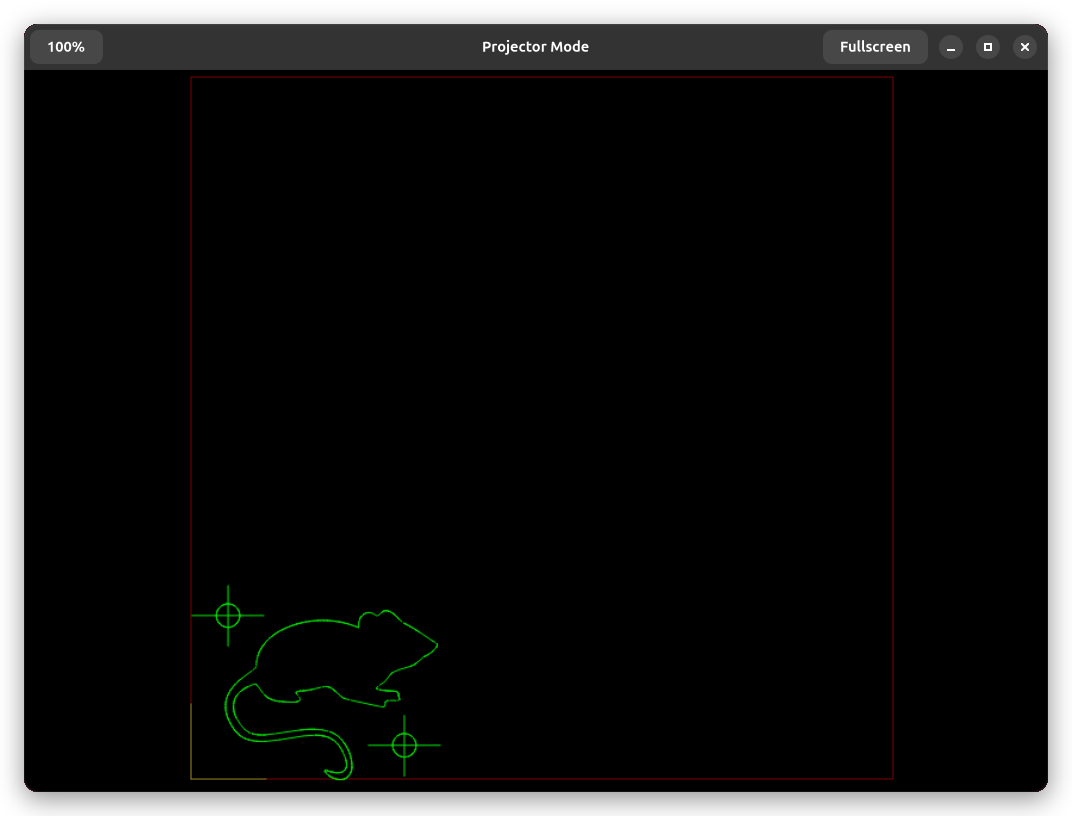
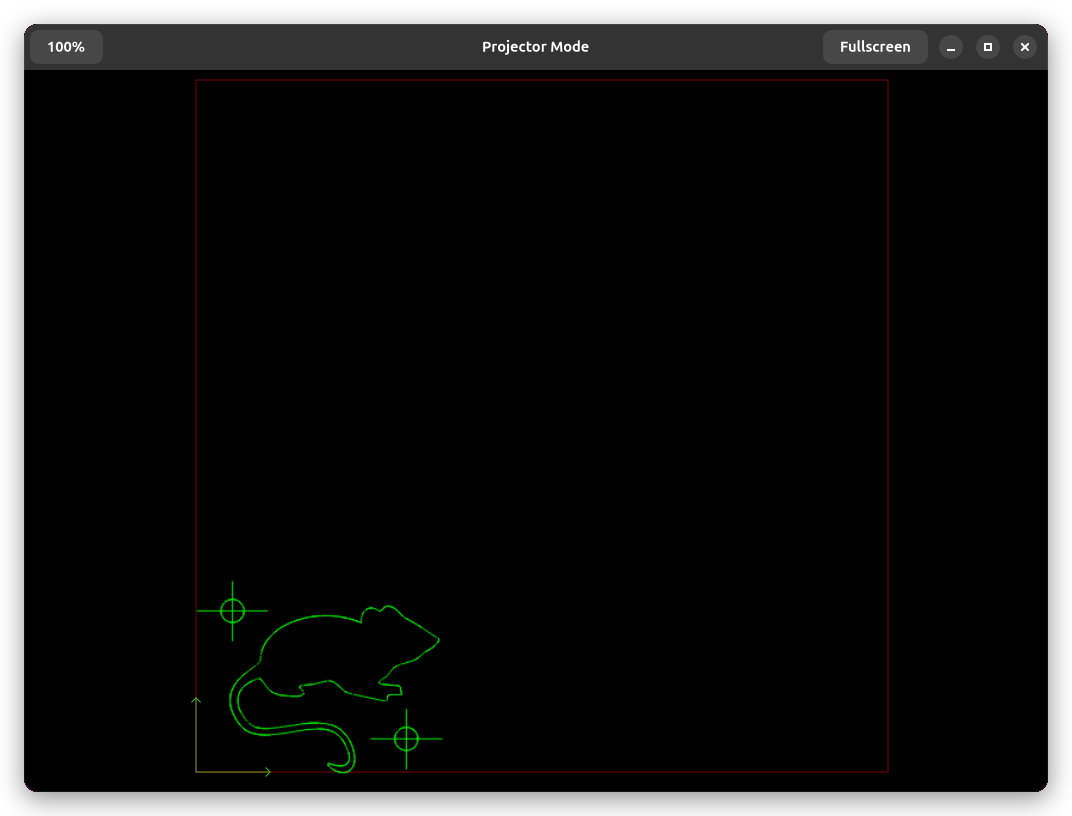
fix(canvas): draw the WCS marker as arrows above the extent frame
The green work-origin marker was previously drawn below the axis
extent frame and nogo zones with the same hairline style, so it
blended into the red frame and became invisible whenever the work
origin sat on the frame corner.

The marker axes are now arrows: the shafts keep their device-space
hairline width, and the arrowheads use a fixed device-space size
that no longer scales with zoom. The green is fully opaque, and the
z-order sort now places the marker above the extent frame and nogo
zones while keeping it below stock, layers, and the laser dot.

Regenerate the main-standard and projector-mode screenshots and
reword the projector docs (and translations) from crosshair to
arrows.

Fixes #625

diff --git a/rayforge/ui_gtk/canvas2d/elements/work_origin.py b/rayforge/ui_gtk/canvas2d/elements/work_origin.py
@@ -1,3 +1,5 @@
+import math
+
 import cairo
 
 from ...canvas import CanvasElement
@@ -6,10 +8,14 @@ from ...canvas import CanvasElement
 class WorkOriginElement(CanvasElement):
     """
     A non-interactive CanvasElement that draws a CNC-style work origin
-    symbol (a quadrant with two axes arrows). Its position on the canvas
+    symbol (a quadrant with two axis arrows). Its position on the canvas
     represents the physical location of the active Work Coordinate System's
     zero point.
     """
+
+    ARROWHEAD_PX = 6.0
+    ARROWHEAD_ANGLE = math.pi / 4
+    ARROWHEAD_MAX_FRACTION = 0.3
 
     def __init__(self, **kwargs):
         # The element's size is in world units (mm), so it scales with zoom.
@@ -66,27 +72,55 @@ class WorkOriginElement(CanvasElement):
         """
         ctx.save()
 
-        # Set drawing properties. The stroke uses a device-space width:
-        # a world-unit width would be thinner than a pixel at most zoom
-        # levels, leaving the marker invisible after anti-aliasing.
-        ctx.set_source_rgba(0.2, 0.8, 0.2, 0.9)  # A distinct green color
+        # Set drawing properties. Stroke width and arrowhead size are in
+        # device space: world-unit dimensions would be thinner than a
+        # pixel at most zoom levels, leaving the marker invisible after
+        # anti-aliasing.
+        ctx.set_source_rgba(0.2, 0.8, 0.2, 1.0)  # A distinct green color
         ctx.set_hairline(True)
         ctx.set_line_cap(cairo.LINE_CAP_ROUND)
         ctx.set_line_join(cairo.LINE_JOIN_ROUND)
 
-        # --- Draw X-Axis with Arrow ---
         axis_len = self.width
-        x_dir_x, x_dir_y = self._x_dir
-        ctx.new_path()
-        ctx.move_to(0, 0)
-        ctx.line_to(x_dir_x * axis_len, x_dir_y * axis_len)
-        ctx.stroke()
-
-        # --- Draw Y-Axis with Arrow ---
-        y_dir_x, y_dir_y = self._y_dir
-        ctx.new_path()
-        ctx.move_to(0, 0)
-        ctx.line_to(y_dir_x * axis_len, y_dir_y * axis_len)
-        ctx.stroke()
+        self._draw_axis_arrow(ctx, self._x_dir, axis_len)
+        self._draw_axis_arrow(ctx, self._y_dir, axis_len)
 
         ctx.restore()
+
+    def _draw_axis_arrow(self, ctx: cairo.Context, direction, length: float):
+        """Draws one axis as a shaft with an arrowhead at its tip."""
+        dir_x, dir_y = direction
+        tip_x = dir_x * length
+        tip_y = dir_y * length
+
+        ctx.new_path()
+        ctx.move_to(0.0, 0.0)
+        ctx.line_to(tip_x, tip_y)
+        ctx.stroke()
+
+        head_len = self._arrowhead_length(ctx, direction, length)
+        cos_a = math.cos(self.ARROWHEAD_ANGLE)
+        sin_a = math.sin(self.ARROWHEAD_ANGLE)
+        for sign in (1.0, -1.0):
+            wing_x = -(dir_x * cos_a - sign * dir_y * sin_a)
+            wing_y = -(sign * dir_x * sin_a + dir_y * cos_a)
+            ctx.new_path()
+            ctx.move_to(tip_x, tip_y)
+            ctx.line_to(tip_x + wing_x * head_len, tip_y + wing_y * head_len)
+            ctx.stroke()
+
+    def _arrowhead_length(
+        self, ctx: cairo.Context, direction, max_length: float
+    ) -> float:
+        """
+        Returns the arrowhead length in local units that corresponds to a
+        constant device-space size, capped to a fraction of the shaft.
+        """
+        dev_x, dev_y = ctx.get_matrix().transform_distance(*direction)
+        scale = math.hypot(dev_x, dev_y)
+        if scale <= 0.0:
+            return 0.0
+        return min(
+            self.ARROWHEAD_PX / scale,
+            max_length * self.ARROWHEAD_MAX_FRACTION,
+        )

diff --git a/rayforge/ui_gtk/canvas2d/surface.py b/rayforge/ui_gtk/canvas2d/surface.py
@@ -146,10 +146,6 @@ class WorkSurface(WorldSurface):
         self._pointer_dot.set_visible(False)
         self.root.add(self._pointer_dot)
 
-        # Add the Work Origin visual element
-        self._work_origin_element = WorkOriginElement()
-        self.root.add(self._work_origin_element)
-
         # Add the Workarea Background element (gray background for workarea)
         self._workarea_bg_element = WorkareaBackgroundElement()
         self._workarea_bg_element.set_visible(False)
@@ -164,6 +160,11 @@ class WorkSurface(WorldSurface):
         self._extent_frame_element = AxisExtentFrameElement()
         self._extent_frame_element.set_visible(False)
         self.root.add(self._extent_frame_element)
+
+        # Add the Work Origin visual element. Drawn above the extent frame
+        # and nogo zones, which can share its position.
+        self._work_origin_element = WorkOriginElement()
+        self.root.add(self._work_origin_element)
 
         # Signals for clipboard and duplication operations
         self.cut_requested = Signal()
@@ -1162,14 +1163,18 @@ class WorkSurface(WorldSurface):
             if isinstance(element, StockElement):
                 # Stock elements are below all layers but above camera images
                 return 10
-            if isinstance(element, (CameraImageElement, WorkOriginElement)):
-                # Camera images and WCS origin are at the very bottom.
+            if isinstance(element, CameraImageElement):
+                # Camera images are at the very bottom.
                 return -2
             if isinstance(element, AxisExtentFrameElement):
-                # Extent frame is above camera but below everything else
+                # Extent frame is above the camera but below the WCS marker
                 return -1.5
             if isinstance(element, NogoZoneElement):
                 return -1.4
+            if isinstance(element, WorkOriginElement):
+                # WCS origin marker is above the extent frame and nogo
+                # zones so it stays visible where they overlap
+                return -1.3
             # Other elements are above the camera but below stock and layers.
             return -1
 

diff --git a/website/i18n/hi/docusaurus-plugin-content-docs/current/addons/projector-mode.md b/website/i18n/hi/docusaurus-plugin-content-docs/current/addons/projector-mode.md
@@ -47,8 +47,8 @@ Fullscreen** (वही बटन) पर क्लिक करें.
 वर्कपीस की आधार छवियाँ नहीं दिखाई देतीं, जिससे डिस्प्ले कटिंग पाथ पर केंद्रित रहता है.
 
 मशीन विस्तार फ़्रेम आपकी मशीन के अक्षों के पूरे चालन क्षेत्र दर्शाने वाली एक सीमा के रूप में दिखाई
-देता है. वर्क मूल क्रॉसहेयर दिखाता है कि निर्देशांक प्रणाली मूल बिंदु उस क्षेत्र के भीतर कहाँ स्थित
-है. यदि आप मशीन पर वर्क निर्देशांक प्रणाली ऑफ़सेट बदलते हैं तो दोनों स्वतः अपडेट होते हैं.
+देता है. वर्क मूल तीर दिखाते हैं कि निर्देशांक प्रणाली मूल बिंदु उस क्षेत्र के भीतर कहाँ स्थित है.
+यदि आप मशीन पर वर्क निर्देशांक प्रणाली ऑफ़सेट बदलते हैं तो दोनों स्वतः अपडेट होते हैं.
 
 ## संबंधित विषय
 

diff --git a/website/i18n/uk/docusaurus-plugin-content-docs/current/addons/projector-mode.md b/website/i18n/uk/docusaurus-plugin-content-docs/current/addons/projector-mode.md
@@ -43,7 +43,7 @@ workpieces на головному полотні.
 різання.
 
 Рамка меж машини з'являється як межа, що представляє всю область переміщення осей вашої машини.
-Перехрестя робочого початку показує, де знаходиться початок системи координат у цій області. Обидва
+Стрілки робочого початку показують, де знаходиться початок системи координат у цій області. Обидва
 оновлюються автоматично, якщо ви зміните зсув робочої системи координат на вашій машині.
 
 ## Пов'язані теми

diff --git a/website/i18n/es/docusaurus-plugin-content-docs/current/addons/projector-mode.md b/website/i18n/es/docusaurus-plugin-content-docs/current/addons/projector-mode.md
@@ -45,8 +45,8 @@ enviarán al láser. Las imágenes base de tus workpieces no se muestran, manten
 enfocada en las trayectorias de corte.
 
 El marco de extensión de la máquina aparece como un borde que representa toda el área de recorrido
-de los ejes de tu máquina. La cruz del origen de trabajo muestra dónde se encuentra el origen del
-sistema de coordenadas dentro de esa área. Ambos se actualizan automáticamente si cambias el
+de los ejes de tu máquina. Las flechas del origen de trabajo muestran dónde se encuentra el origen
+del sistema de coordenadas dentro de esa área. Ambos se actualizan automáticamente si cambias el
 desplazamiento del sistema de coordenadas de trabajo en tu máquina.
 
 ## Temas relacionados

diff --git a/website/i18n/zh-CN/docusaurus-plugin-content-docs/current/addons/projector-mode.md b/website/i18n/zh-CN/docusaurus-plugin-content-docs/current/addons/projector-mode.md
@@ -26,7 +26,7 @@
 
 投影显示渲染文档的简化视图。工作件显示为亮绿色轮廓，展示计算出的刀具路径——与将发送到激光的路径相同。工作件的基底图像不会显示，保持显示集中在切割路径上。
 
-机器范围框架显示为边框，代表机器轴的全部行程区域。工作原点十字线显示坐标系原点在该区域内的位置。当您更改机器上的工件坐标系偏移时，两者都会自动更新。
+机器范围框架显示为边框，代表机器轴的全部行程区域。工作原点箭头显示坐标系原点在该区域内的位置。当您更改机器上的工件坐标系偏移时，两者都会自动更新。
 
 ## 相关主题
 

diff --git a/website/docs/addons/projector-mode.md b/website/docs/addons/projector-mode.md
@@ -48,8 +48,8 @@ outlines showing the computed toolpaths — the same paths that will be sent to 
 images of your workpieces are not shown, keeping the display focused on the cutting paths.
 
 The machine extent frame appears as a border representing the full travel area of your machine's
-axes. The work origin crosshair shows where the coordinate system origin is located within that
-area. Both update automatically if you change the work coordinate system offset on your machine.
+axes. The work origin arrows show where the coordinate system origin is located within that area.
+Both update automatically if you change the work coordinate system offset on your machine.
 
 ## Related Topics
 

diff --git a/website/i18n/de/docusaurus-plugin-content-docs/current/addons/projector-mode.md b/website/i18n/de/docusaurus-plugin-content-docs/current/addons/projector-mode.md
@@ -44,8 +44,8 @@ Laser gesendet werden. Die Basisbilder deiner Werkstücke werden nicht angezeigt
 auf die Schnittwege konzentriert bleibt.
 
 Der Maschinenbereich-Rahmen erscheint als Rand, der den gesamten Verfahrweg der Maschinenachsen
-darstellt. Das Arbeitsursprung-Fadenkreuz zeigt, wo sich der Ursprung des Koordinatensystems
-innerhalb dieses Bereichs befindet. Beide aktualisieren sich automatisch, wenn du den
+darstellt. Die Arbeitsursprung-Pfeile zeigen, wo sich der Ursprung des Koordinatensystems innerhalb
+dieses Bereichs befindet. Beide aktualisieren sich automatisch, wenn du den
 Arbeitskoordinatensystem-Versatz an deiner Maschine änderst.
 
 ## Verwandte Themen

diff --git a/website/i18n/fr/docusaurus-plugin-content-docs/current/addons/projector-mode.md b/website/i18n/fr/docusaurus-plugin-content-docs/current/addons/projector-mode.md
@@ -45,7 +45,7 @@ seront envoyés au laser. Les images de base de vos workpieces ne sont pas affic
 l'affichage concentré sur les trajectoires de coupe.
 
 Le cadre d'étendue de la machine apparaît comme une bordure représentant toute la zone de
-déplacement des axes de votre machine. Le réticule de l'origine de travail indique où se trouve
+déplacement des axes de votre machine. Les flèches de l'origine de travail indiquent où se trouve
 l'origine du système de coordonnées dans cette zone. Les deux se mettent à jour automatiquement si
 vous modifiez le décalage du système de coordonnées de travail sur votre machine.
 

diff --git a/website/i18n/pt-BR/docusaurus-plugin-content-docs/current/addons/projector-mode.md b/website/i18n/pt-BR/docusaurus-plugin-content-docs/current/addons/projector-mode.md
@@ -43,7 +43,7 @@ que serão enviados ao laser. As imagens base dos seus workpieces não são exib
 exibição focada nas trajetórias de corte.
 
 O quadro de extensão da máquina aparece como uma borda representando toda a área de deslocamento dos
-eixos da sua máquina. A mira da origem de trabalho mostra onde a origem do sistema de coordenadas
+eixos da sua máquina. As setas da origem de trabalho mostram onde a origem do sistema de coordenadas
 está localizada dentro dessa área. Ambos são atualizados automaticamente se você alterar o
 deslocamento do sistema de coordenadas de trabalho na sua máquina.
 
